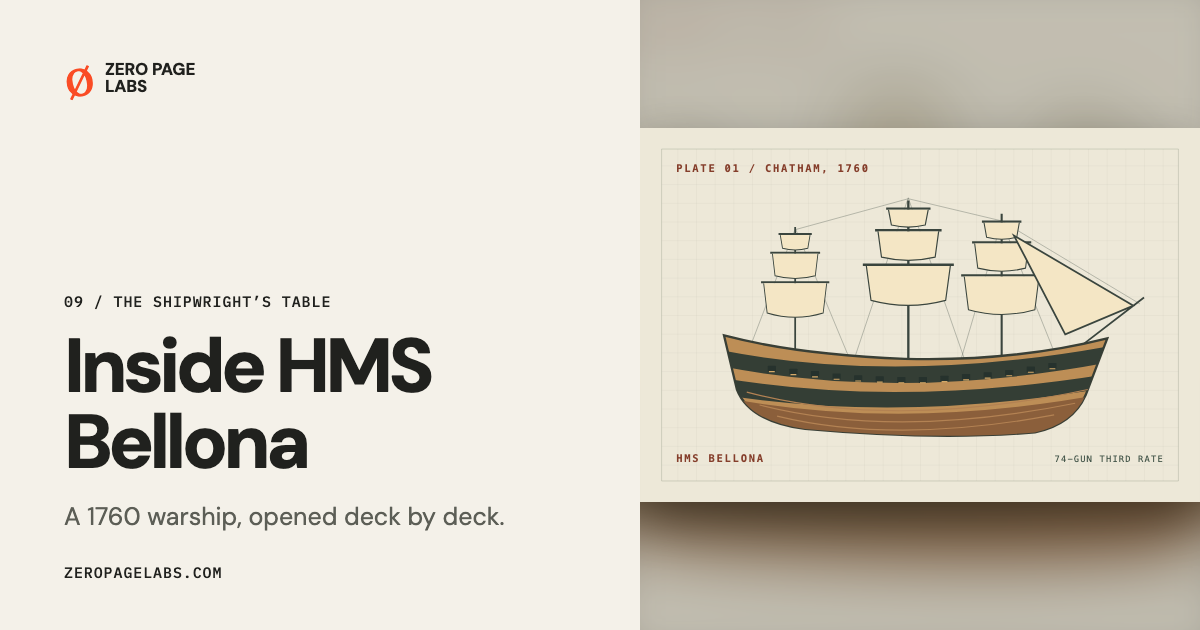
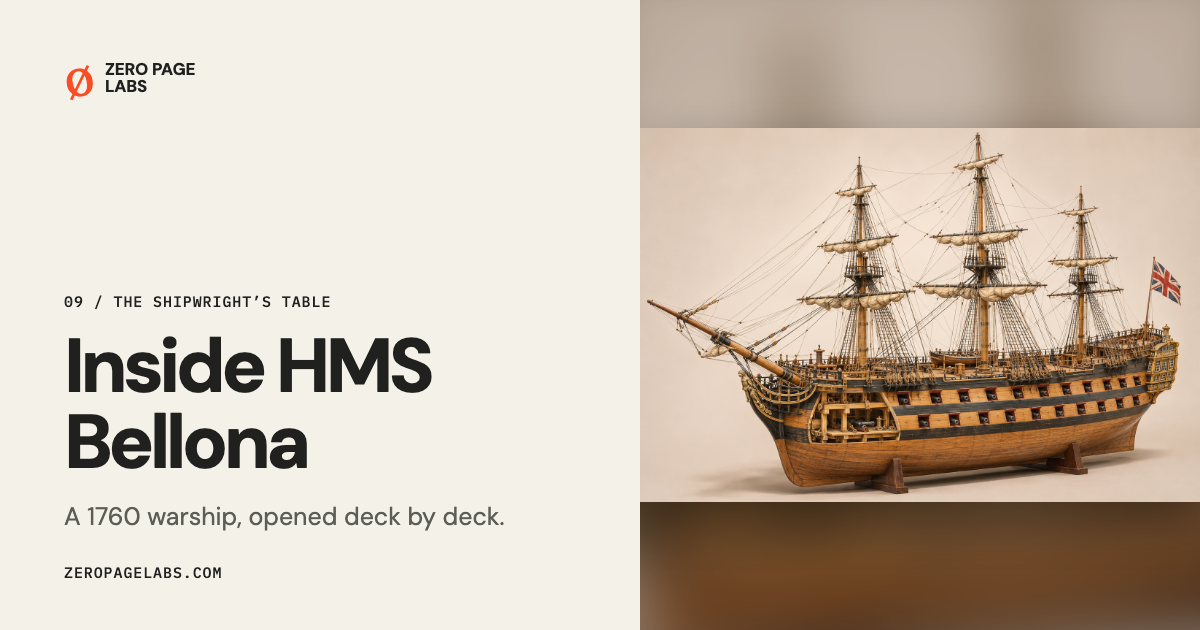
Replace Bellona card drawing with realistic ship illustration

diff --git a/knowledge/domain/content.md b/knowledge/domain/content.md
@@ -21,3 +21,6 @@ Verify visibility through GitHub before linking a project. Public source invento
 
 ## Lexical example texts
 Public examples are bundled in experiments-source/lexical/src/text-examples.js; original passages require no attribution to external authors or text-fetch services. Metadata specifies view, focus terms, and the guide. Keep focus terms in the rendered word set even when they are outside the frequency top8. Changing examples resets prior corpus filters. Selecting custom text clears example identity. The picker remains visible independently of the input panel.
+
+## 2026-11-25 — Bellona cover illustration
+Replaced the schematic card with `assets/experiment-bellona-realistic.png` (1536×1024), generated using built-in imagegen. Artistic model-ship illustration, not a documentary photograph or verified reconstruction. Direction: photorealistic wooden Admiralty model, three masts, furled sails, two gun decks, partial hull cutaway, warm ivory studio background, no text. Original SVG retained. Home and Experiments consume the catalog cover; Bellona and Experiments share cards were regenerated.

diff --git a/task.md b/task.md
@@ -640,3 +640,11 @@ Surface: static build, shared analytics script, privacy notice. Publish through 
 - [x] Fresh independent review passes.
 - [x] Production serves the analytics script.
 - [x] Analytics receives a real browser visit.
+
+## 2026-11-25 — Realistic Bellona card
+- [x] Bellona cover uses a realistic ship illustration.
+- [x] Home page shows the replacement cover.
+- [x] Experiments index shows the replacement cover.
+- [x] Share card fingerprints match the changed cover.
+- [x] Deep site verification passes.
+- [ ] Public site serves the replacement cover.
